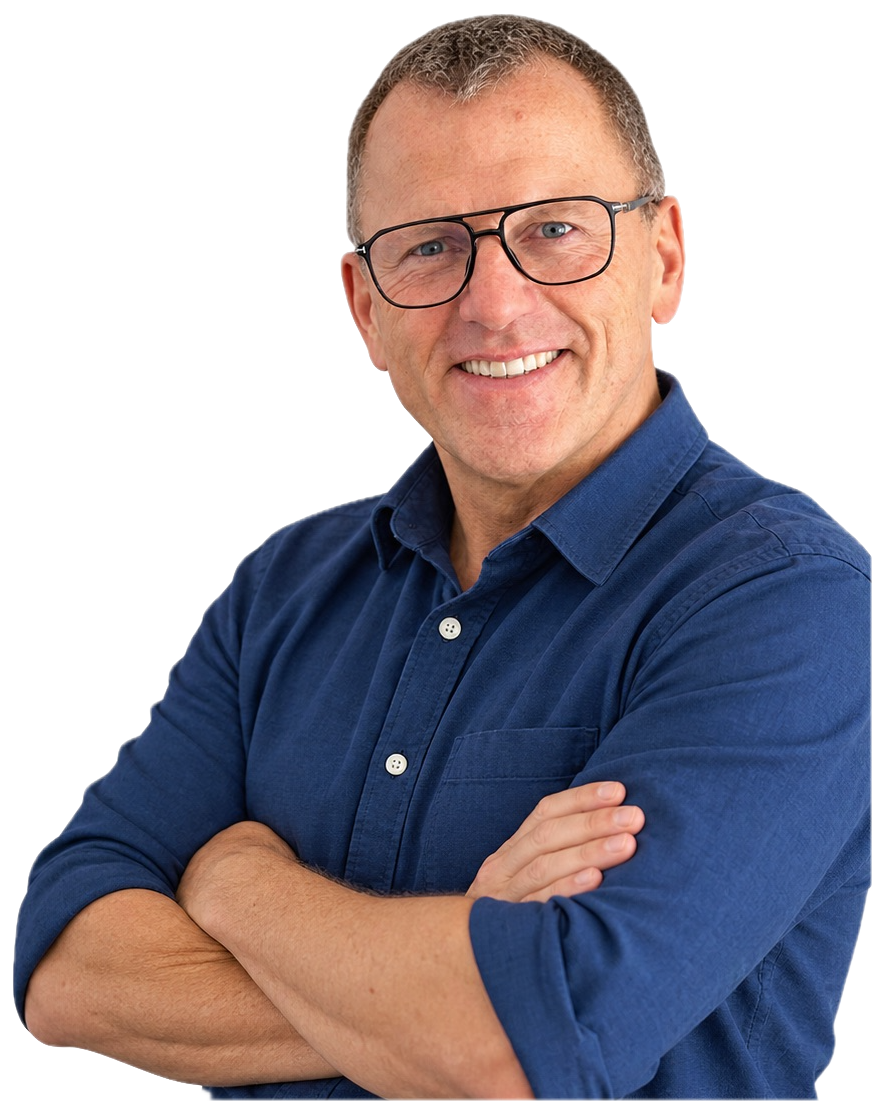
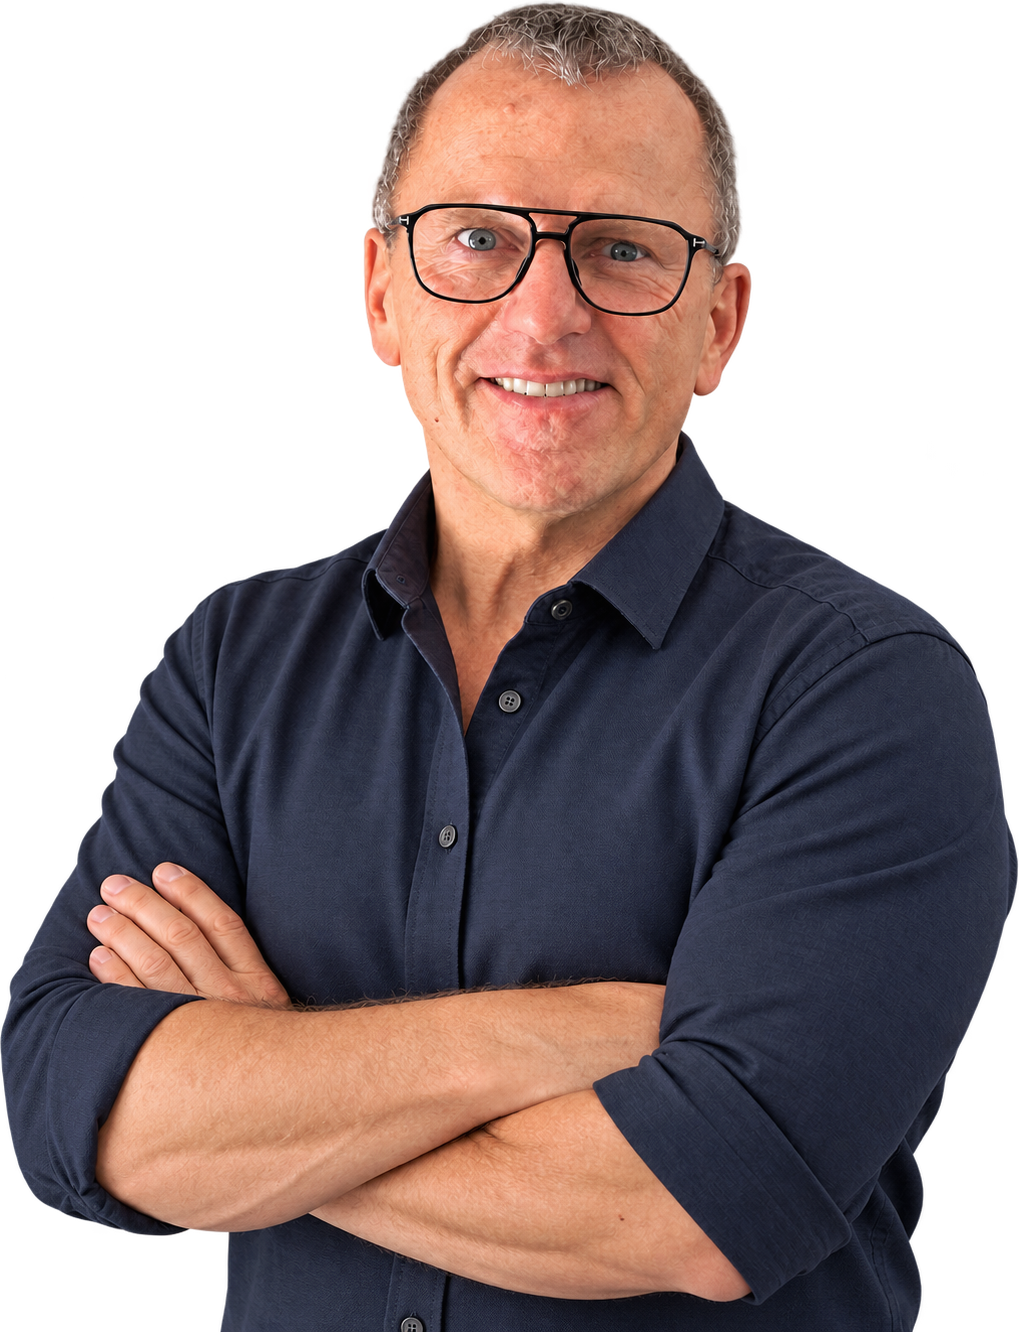
ui: neues Portrait, groß und auf der Unterkante des Kontaktbands

diff --git a/app/pages/index.vue b/app/pages/index.vue
@@ -78,7 +78,7 @@ useSeoMeta({
             <NuxtImg
               src="/images/eddy-portrait.png"
               alt="Eduard Andrae"
-              width="440"
+              width="544"
               densities="1x 2x"
               format="webp"
               quality="88"
@@ -187,8 +187,10 @@ useSeoMeta({
     radial-gradient(75% 130% at 78% 55%, rgba(33, 164, 163, 0.1) 0%, transparent 62%),
     var(--color-graphite-950);
   /* Viel Luft: Der Block steht sehr weit oben und braucht Abstand, damit er
-     nicht am Hero klebt. */
-  padding: clamp(4.5rem, 11vw, 9rem) 0;
+     nicht am Hero klebt. Als Variable, weil das Porträt denselben Wert
+     unten wieder aufhebt. */
+  --contact-pad: clamp(4.5rem, 11vw, 9rem);
+  padding: var(--contact-pad) 0;
 }
 
 .contact__inner {
@@ -198,7 +200,7 @@ useSeoMeta({
 }
 @media (min-width: 880px) {
   .contact__inner {
-    grid-template-columns: minmax(0, 1fr) minmax(0, 0.62fr);
+    grid-template-columns: minmax(0, 1fr) minmax(0, 0.9fr);
   }
 }
 
@@ -257,11 +259,13 @@ useSeoMeta({
   align-items: flex-end;
 }
 
+/* So groß wie die Spalte erlaubt. Das Porträt steht auf der Unterkante des
+   Bands: Der negative Rand hebt das Section-Padding auf, der Anschnitt auf
+   Brusthöhe wirkt so gewollt statt abgeschnitten. */
 .contact__portrait {
-  width: min(100%, 22rem);
+  width: min(100%, 34rem);
   height: auto;
-  /* Kurzer Abriss unten, damit der Freisteller nicht abgeschnitten wirkt. */
-  mask-image: linear-gradient(to bottom, #000 90%, transparent 100%);
+  margin-bottom: calc(-1 * var(--contact-pad));
   filter: drop-shadow(0 18px 45px rgba(14, 15, 18, 0.7));
 }
 
@@ -270,7 +274,7 @@ useSeoMeta({
     justify-content: center;
   }
   .contact__portrait {
-    width: min(72%, 17rem);
+    width: min(100%, 26rem);
   }
 }
 </style>
